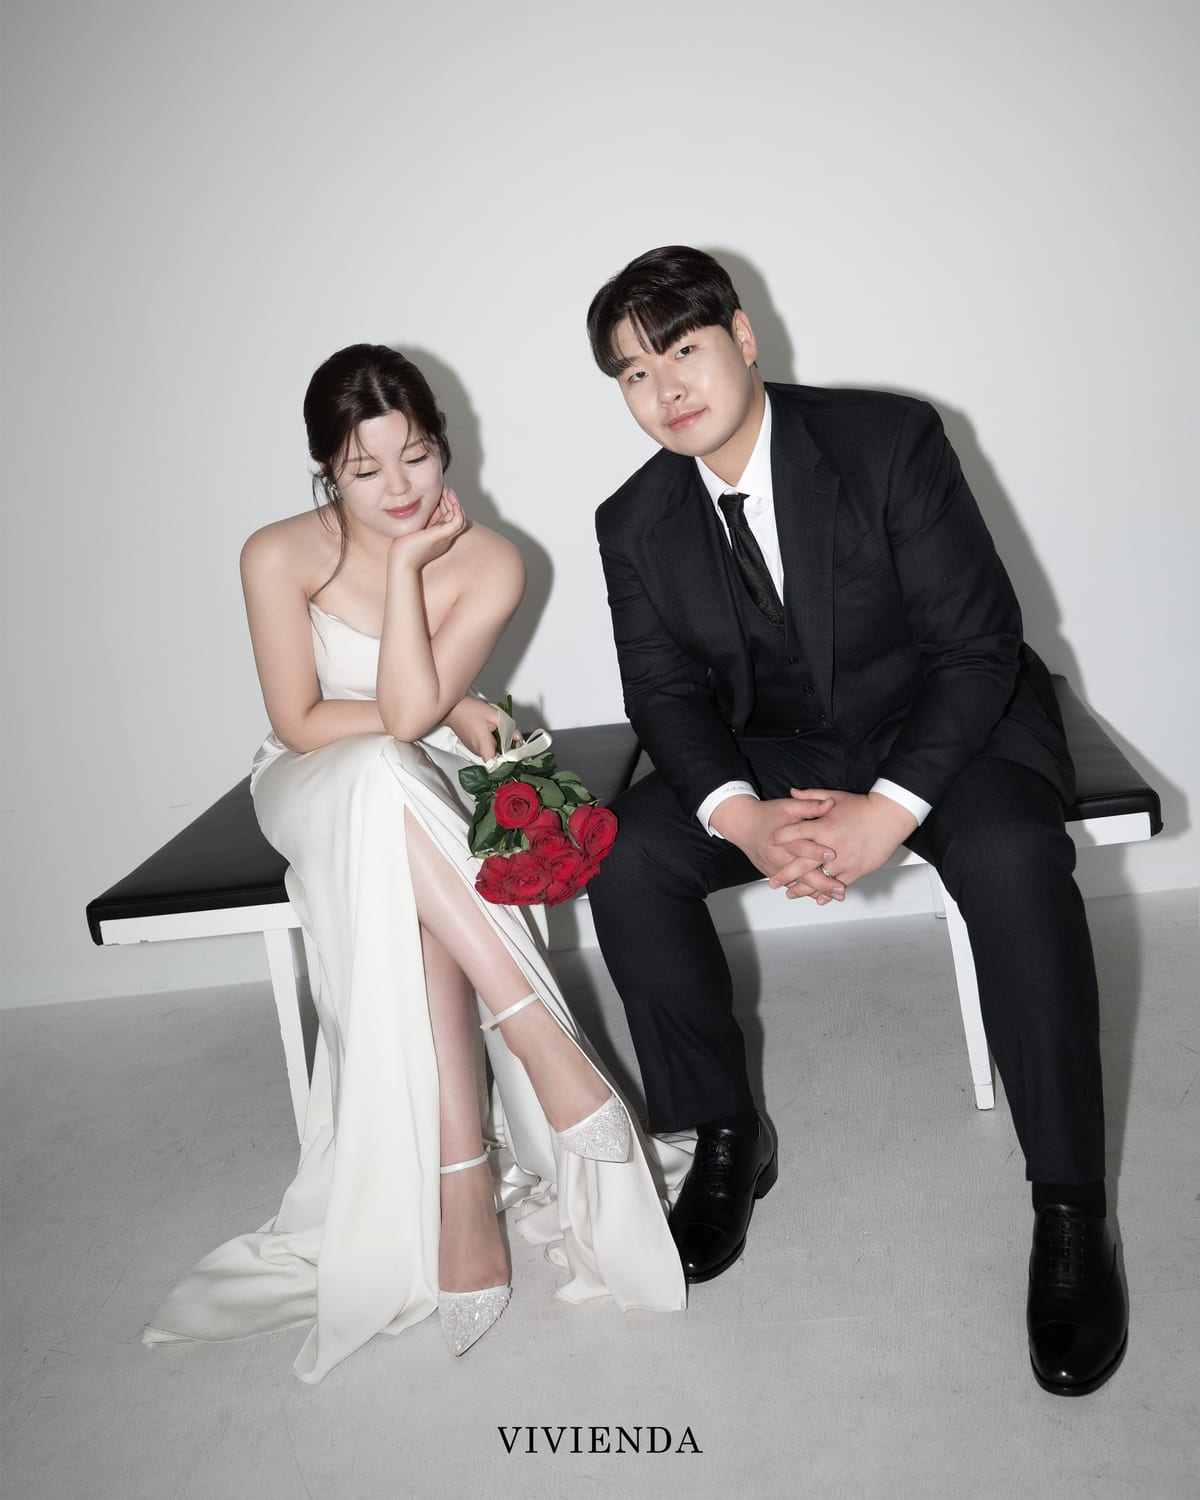
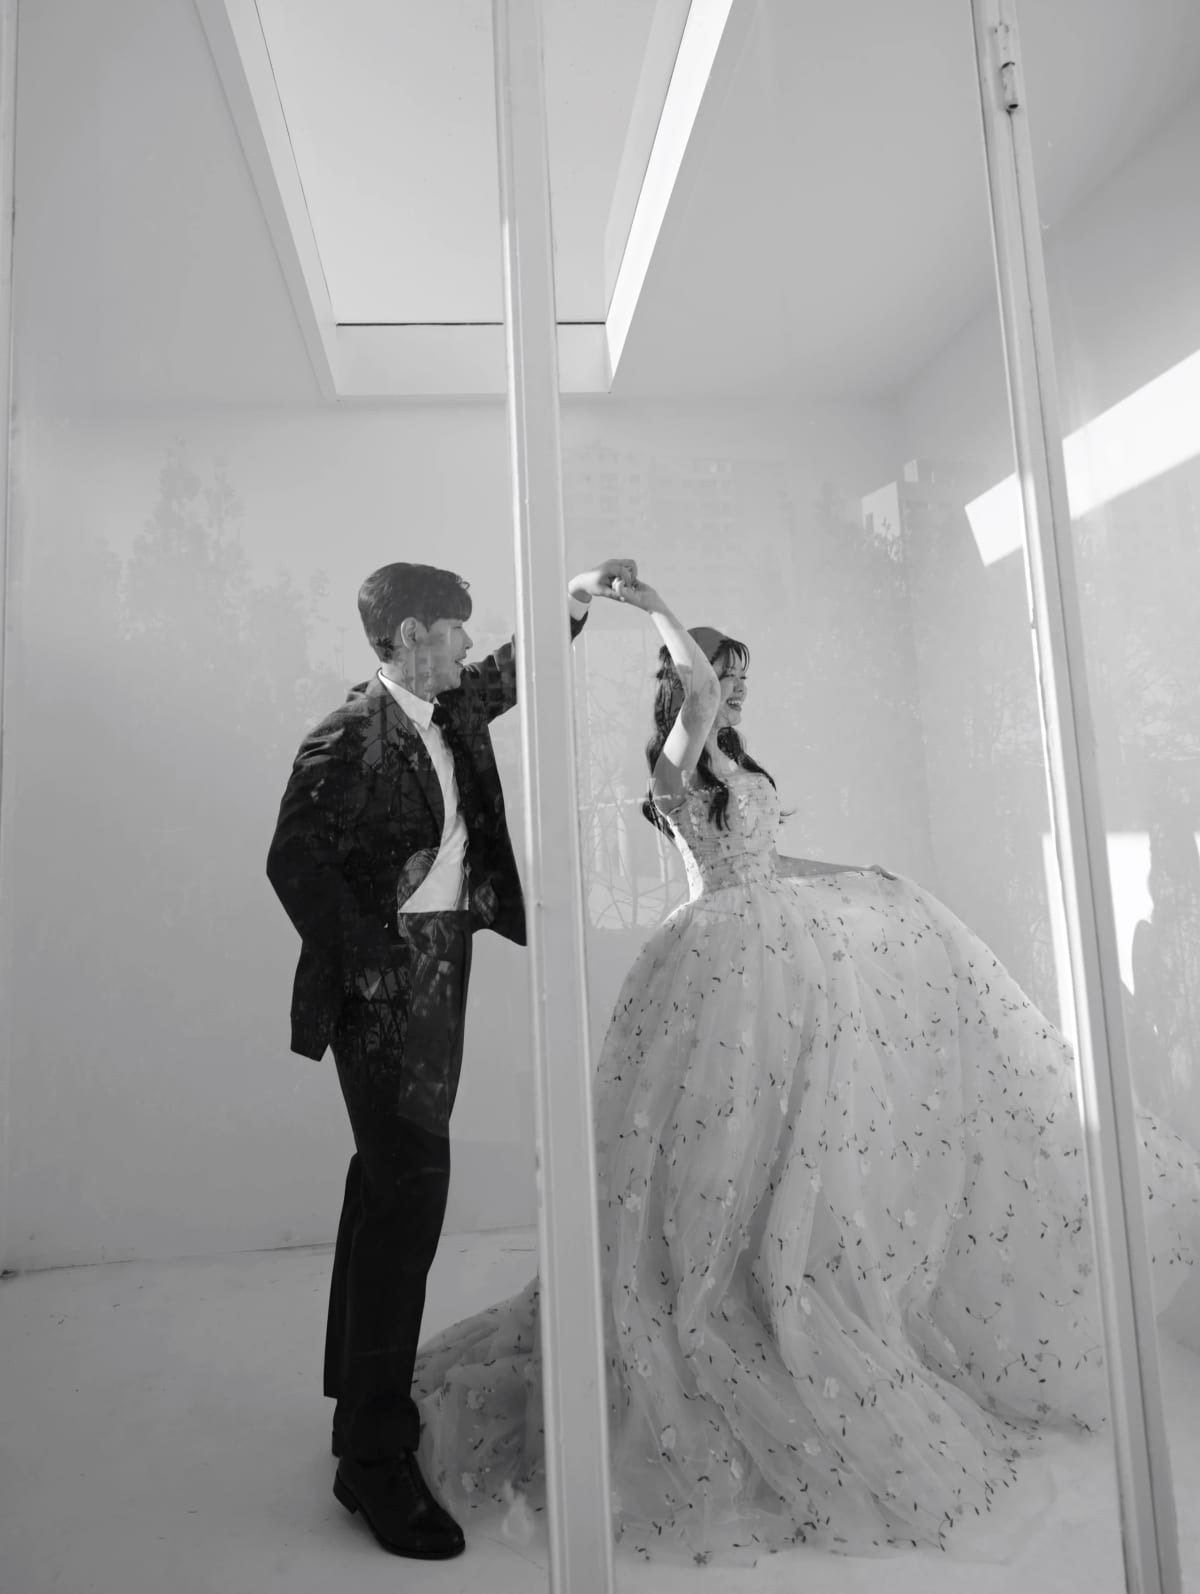
261014 silee - 청첩장 공유 대표 사진 img_13으로 변경

diff --git a/index.html b/index.html
@@ -148,15 +148,15 @@
     />
     <meta
       property="og:image"
-      content="https://hwajinyu.silee.net/og-image.jpg?v=20261014"
+      content="https://hwajinyu.silee.net/og-image.jpg?v=20261014-img13"
     />
     <meta
       property="og:image:secure_url"
-      content="https://hwajinyu.silee.net/og-image.jpg?v=20261014"
+      content="https://hwajinyu.silee.net/og-image.jpg?v=20261014-img13"
     />
     <meta property="og:image:type" content="image/jpeg" />
     <meta property="og:image:width" content="1200" />
-    <meta property="og:image:height" content="1500" />
+    <meta property="og:image:height" content="1594" />
     <meta name="twitter:card" content="summary_large_image" />
     <meta name="twitter:title" content="세인 🖤 화진 결혼합니다" />
     <meta
@@ -165,7 +165,7 @@
     />
     <meta
       name="twitter:image"
-      content="https://hwajinyu.silee.net/og-image.jpg?v=20261014"
+      content="https://hwajinyu.silee.net/og-image.jpg?v=20261014-img13"
     />
     <title>세인 🖤 화진 결혼합니다</title>
   </head>

diff --git a/src/components/wedding/sections/ShareSection.tsx b/src/components/wedding/sections/ShareSection.tsx
@@ -10,9 +10,9 @@ const shareTemplate = {
   content: {
     title: "이세인 ♥ 유화진 결혼합니다",
     description: "2027.01.16(토) 오전 11시",
-    imageUrl: `${invitationUrl}og-image.jpg?v=20261014`,
+    imageUrl: `${invitationUrl}og-image.jpg?v=20261014-img13`,
     imageWidth: 1200,
-    imageHeight: 1500,
+    imageHeight: 1594,
     link,
   },
   buttons: [{ title: "청첩장 보기", link }],
